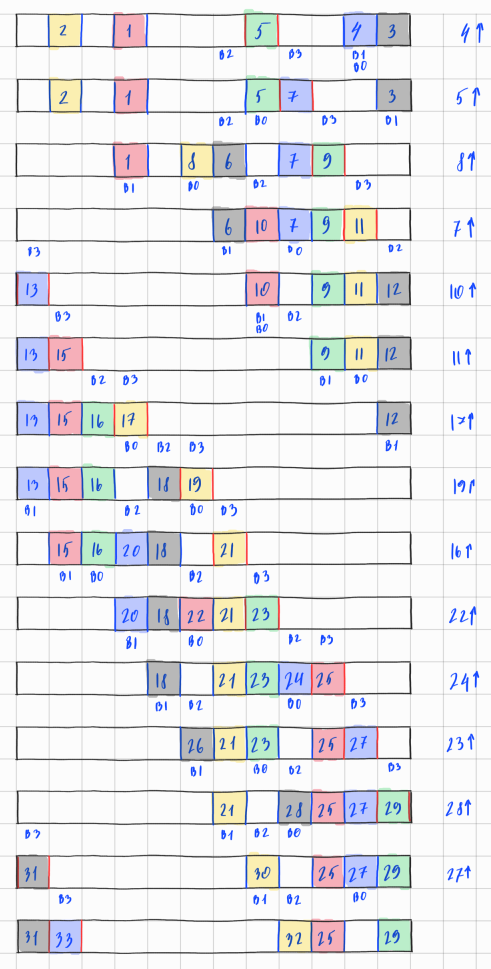
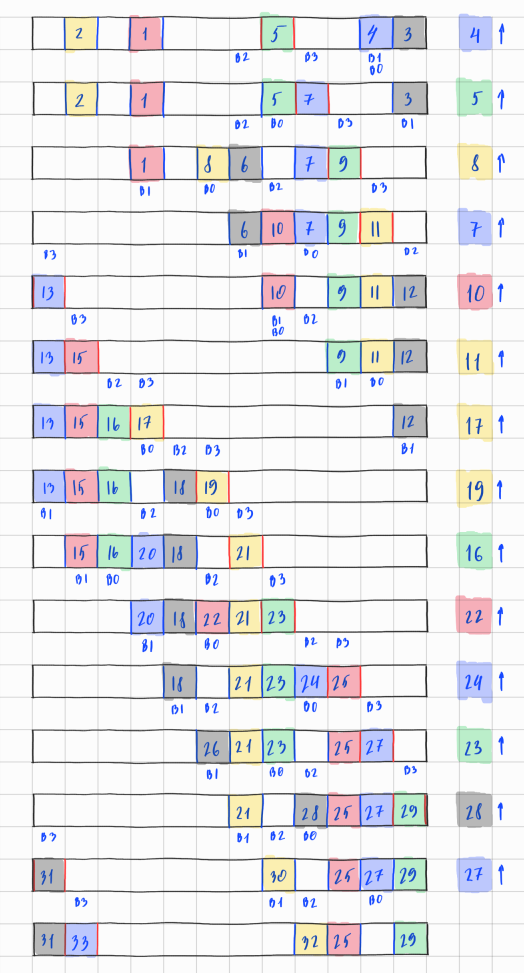
Caterpillar algo doc updated

diff --git a/4. Практическая реализация flash-friendly Block DB в Phraser - Алгоритм Гусеницы.md b/4. Практическая реализация flash-friendly Block DB в Phraser - Алгоритм Гусеницы.md
@@ -57,9 +57,6 @@ hashtable* blockInfos; //key BlockId, value BlockNumberAndVersionAndCount
 
 ## 3. Алгоритм Гусеницы (Caterpillar Algorithm)
 
-> *"Caterpillars move in a wavelike motion, from back to front"*  
-> \- **https://blog.entomologist.net/the-movement-of-the-caterpillars.html** 
-
 Алгоритм Гусеницы - это алгоритм, который решает проблемы записи на flash, описанные в [1. Phraser DB - алгоритмы оптимизации износа flash и bit rot.md](1.%20Phraser%20DB%20-%20%D0%B0%D0%BB%D0%B3%D0%BE%D1%80%D0%B8%D1%82%D0%BC%D1%8B%20%D0%BE%D0%BF%D1%82%D0%B8%D0%BC%D0%B8%D0%B7%D0%B0%D1%86%D0%B8%D0%B8%20%D0%B8%D0%B7%D0%BD%D0%BE%D1%81%D0%B0%20flash%20%D0%B8%20bit%20rot.md), 
 пытаясь равномерно распределить операции записи по секторам flash, одновременно с этим периодически копируя данные, не позволяя
 блокам храниться неограниченное количество времени без обновлений, и таким образом предотвращая bit rot.
@@ -149,11 +146,14 @@ append-only, никогда не перезаписывая данные in-plac
 - `B2` - Находим ближайший *Свободный блок* - *Слева* от *Последнего блока*
 - `B3` 
   - В большинстве случаев за `B3` мы берем блок *Непосредственно справа* от *Последнего блока*.
-  - В этом правиле есть одно исключение, в редких случаях (при полной БД) может сложиться ситуация, при которой 
-  `B2` выпадает на тот самый блок, *Непосредственно справа* от *Последнего блока*.
-    - При этом `B1` всегда выпадет на блок *Непосредственно справа* от `B2`, т.к. в *Полной БД* только один свободный блок, и это `B2`.
-    - В этом случае устанавливаем `B3` = `B1`
-
+  - За исключением ситуации, при которой вычисленный `B2` более близок справа к *Последнему блоку*, чем `B1`. 
+  В этом случае часть гусеницы поползет назад, что нежелательно с точки зрения равномерности распределения. 
+  Корректируем данную ситуацию следующим образом: 
+    - `B2` = блок *Непосредственно справа* от *Последнего блока*.
+    - `B3` = блок *Непосредственно справа* от *Последнего блока*
+    - см. рисунок ниже
+    
+![Copy positions update.png](Copy%20positions%20update.png)
 
 ### 3.2 Структуры данных в ОЗУ
 
@@ -185,16 +185,16 @@ append-only, никогда не перезаписывая данные in-plac
 - `B1` - Находим ближайший *Занятый блок* - *Справа* от *Последнего блока*
   - > для этого используем `rb_tree* occupiedBlockNumbers` (O(log(N))
 - `B2` - Находим ближайший *Свободный блок* - *Слева* от *Последнего блока*
-  - > также находится при помощи `rb_tree* occupiedBlockNumbers` (O(N), можно улучшить до O(log(N), добавив дерево свободных позиций)
-- `B3` 
+  - > также находится при помощи `rb_tree* occupiedBlockNumbers` (O(N), что можно улучшить до O(log(N), добавив дерево свободных позиций)
+- `B3`
   - В большинстве случаев за `B3` мы берем блок *Непосредственно справа* от *Последнего блока*.
     - > вычисляется простым математическим действием
-  - В этом правиле есть одно исключение, в редких случаях (при полной БД) может сложиться ситуация, при которой
-    `B2` выпадает на тот самый блок, *Непосредственно справа* от *Последнего блока*.
-    - При этом `B1` всегда выпадет на блок *Непосредственно справа* от `B2`, т.к. в *Полной БД* только один свободный блок, и это `B2`.
-    - В этом случае устанавливаем `B3` = `B1`
+  - За исключением ситуации, при которой вычисленный `B2` более близок справа к *Последнему блоку*, чем `B1`.
+    В этом случае часть гусеницы поползет назад, что нежелательно с точки зрения равномерности распределения.
+    Корректируем данную ситуацию следующим образом:
+    - `B2` = блок *Непосредственно справа* от *Последнего блока*.
+    - `B3` = блок *Непосредственно справа* от *Последнего блока*
       - > Это также простое математическое действие
-
 
 ###
 #### 3.3.2 Процедура освобождения Tombstoned-блоков
@@ -258,10 +258,13 @@ Tombstoned == false.
 - > Обновляем индексы для B3 (#3.3.3)
 
 
-## 4. Визуализация Caterpillar algorithm
+## 4. Визуализация Caterpillar Algorithm
 
-Название "Алгоритм гусеницы" исходит от характера перемещений блоков, который по прошествии некоторого времени 
-приобретает характер, сходный с перемещением гусеницы.  
-Это можно заметить визуализируя последовательные итерации алгоритма.
+> *"Caterpillars move in a wavelike motion, from back to front"*  
+> \- **https://blog.entomologist.net/the-movement-of-the-caterpillars.html**
+
+Название "Алгоритм гусеницы" исходит от характер перемещений блоков, который по прошествии некоторого времени 
+приобретает вид, сходный с перемещением гусеницы.  
+Это можно заметить, визуализируя последовательные итерации алгоритма.
 
 ![Caterpillar movement.png](Caterpillar%20movement.png)
